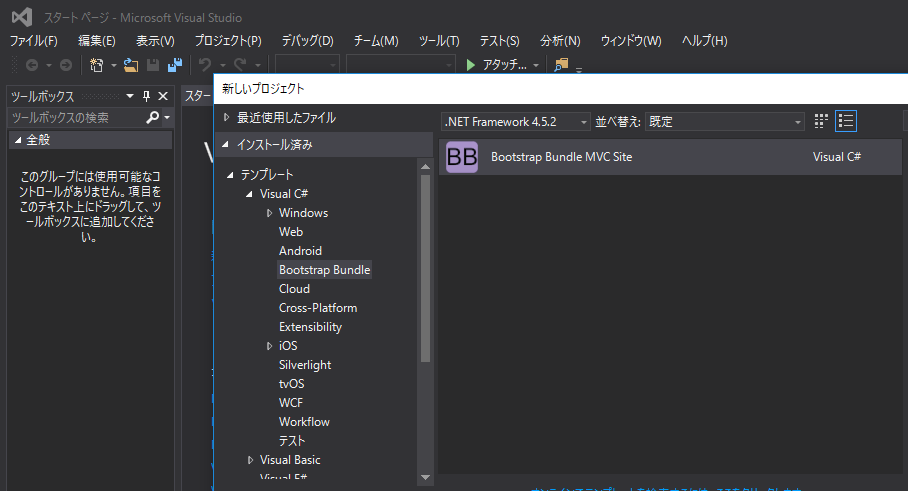
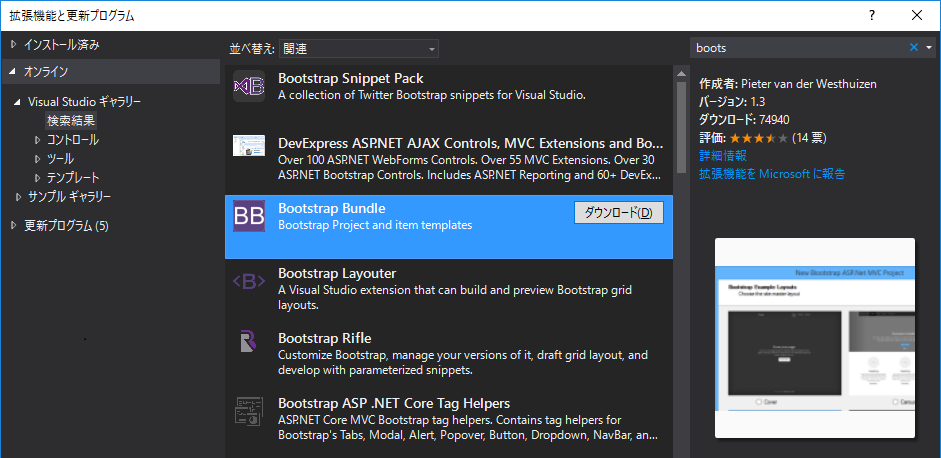
edit

diff --git a/PITCHME.md b/PITCHME.md
@@ -28,45 +28,47 @@
 （作成中）
 ---
 今回、ご紹介するのは、Visual Studioプラグインの「BootstrapBundle」についてです。
-<img src="assets/000.png"/>  
+<img src="assets/001.png"/>  
 http://www.bootstrapbundle.com/
 ---
 ASP.Net MVCでプロジェクトを作成すると、こんな感じのテンプレートが作成されます。
+<img src="assets/002.png"/>  
 ---
 Bootstrap Bundleを追加すると・・・
 ---
 こんなのとか
-<img src="assets/001.png"/>  
----
-こんなのとか
-<img src="assets/002.png"/>  
----
-こんなのが
 <img src="assets/003.png"/>  
 ---
+こんなのとか
 <img src="assets/004.png"/>  
 ---
-<img src="assets/wh.png"/>  
----
-プロジェクト作成時に生成できるようになります。
+こんなテンプレートが作れたりします。
+<img src="assets/005.png"/>  
 ---
 使い方
 ---
 ツール→拡張機能と更新プログラム  
 を選択し
+<img src="assets/006.png"/>  
 ---
 「Bootstrap Bundle」を検索。  
 インストールします。
+<img src="assets/007.png"/>  
+※Visual Studio 2015を使用しました。
 ---
-すると、プロジェクト作成時に、  
+すると、プロジェクト作成のテンプレートに、  
 「Bootstrap Bundle」が追加されます。
+<img src="assets/008.png"/>  
 ---
 テーマを選択し・・・
+<img src="assets/009.png"/>  
 ---
 カラーを選択すると・・・
+<img src="assets/010.png"/>  
 ---
 この通り。
+<img src="assets/011.png"/>  
 ---
-課金すると、テーマを増やすことができるみたいなんで、興味のある方は色々試してみて下さい。
+組み合わせは色々あるので、興味のある方は試してみて下さい。
 ---
 おわり
